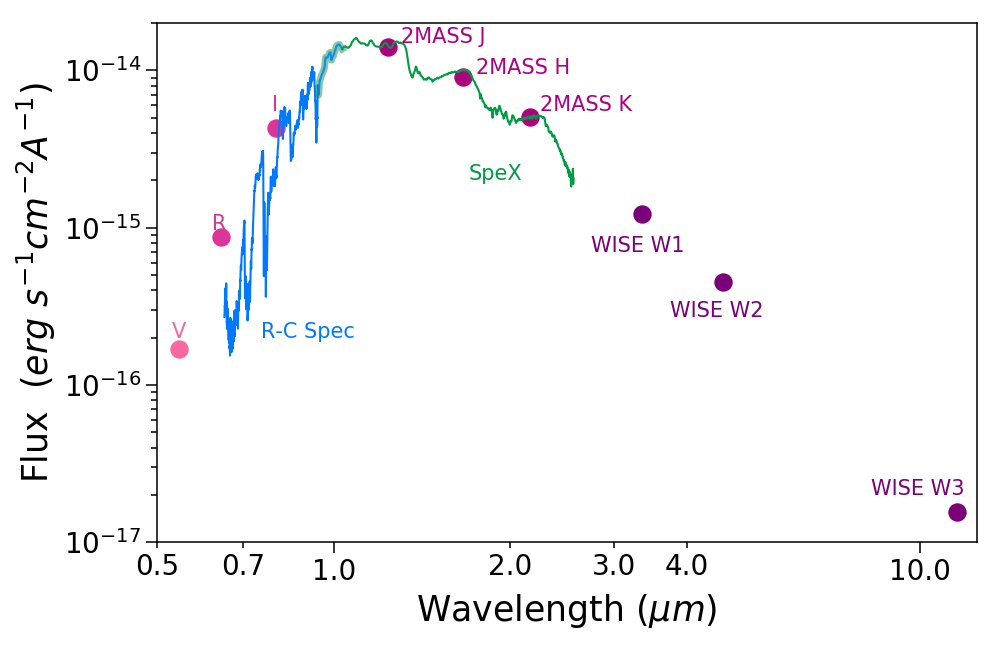
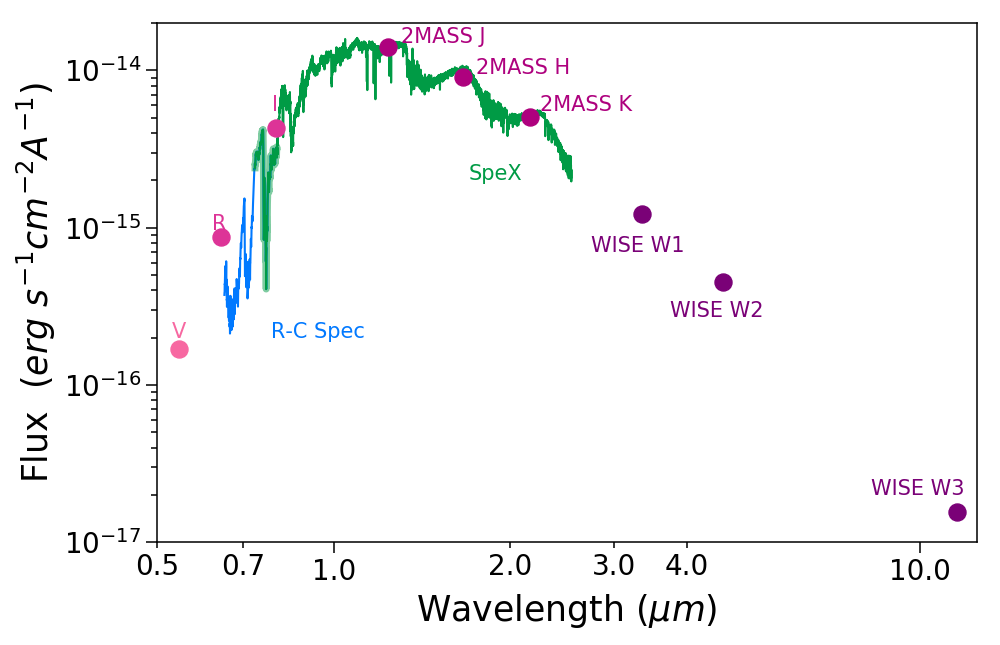
SED with SXD spectra

Changed region(s): [[0.217, 0.062, 0.558, 0.5581], [0.558, 0.2171, 0.589, 0.2791]]

diff --git a/TrappistfullSEDplot.py b/TrappistfullSEDplot.py
@@ -19,9 +19,9 @@ df2 = pd.read_csv('Data/2306-0502 (M7.5) phot.txt', sep=" ", comment='#', names=
 
 # -------- Generate spectral regime SED plot ---------------------------
 # Make subarrays for color coding
-opt = df[(df['w'] <= 0.94105)]
-overlap = df[(df['w'] >= 0.941040) & (df['w'] <= 1.037)]
-nir = df[(df['w'] >= 1.03)]
+opt = df[(df['w'] <= 0.8)]
+overlap = df[(df['w'] >= 0.733791) & (df['w'] <= 0.8)]
+nir = df[(df['w'] >= .733791)]
 
 # ----- Setup plot layout ---------
 fig = plt.figure()
@@ -34,19 +34,19 @@ for axis in ['top', 'bottom', 'left', 'right']:  # Thicken the frame
 # ----- Plot Spectra -----------
 ax1.loglog(opt['w'], opt['f'], c='#0179FF')
 ax1.loglog(overlap['w'], overlap['f'], c='#009B45', lw=5, alpha=0.5)
-ax1.loglog(overlap['w'], overlap['f'], c='#0179FF', alpha=0.8)  # alpha=0.3 for transparency
+ax1.loglog(overlap['w'], overlap['f'], c='#0179FF', alpha=0.85)  # alpha=0.3 for transparency
 ax1.loglog(nir['w'], nir['f'], c='#009B45')
 
 # ----- Plot Photometric points -----
-ax1.scatter(df2['w'][0], df2['f'][0],  c='#ae017e', s=150)  # 2MASS_H
-ax1.scatter(df2['w'][1], df2['f'][1],  c='#ae017e', s=150)  # 2MASS_J
-ax1.scatter(df2['w'][2], df2['f'][2],  c='#ae017e', s=150)  # 2MASS_K
-ax1.scatter(df2['w'][3], df2['f'][3],  c='#dd3497', s=150)  # Cousins_I
-ax1.scatter(df2['w'][4], df2['f'][4],  c='#dd3497', s=150)  # Cousins_R
-ax1.scatter(df2['w'][5], df2['f'][5],  c='#f768a1', s=150)  # Johnson_V
-ax1.scatter(df2['w'][6], df2['f'][6],  c='#7a0177', s=150)  # WISE_W1
-ax1.scatter(df2['w'][7], df2['f'][7],  c='#7a0177', s=150)  # WISE_W2
-ax1.scatter(df2['w'][8], df2['f'][8],  c='#7a0177', s=150)  # WISE_W3
+ax1.scatter(df2['w'][0], df2['f'][0],  c='#ae017e', s=150, zorder=6)  # 2MASS_H
+ax1.scatter(df2['w'][1], df2['f'][1],  c='#ae017e', s=150, zorder=6)  # 2MASS_J
+ax1.scatter(df2['w'][2], df2['f'][2],  c='#ae017e', s=150, zorder=6)  # 2MASS_K
+ax1.scatter(df2['w'][3], df2['f'][3],  c='#dd3497', s=150, zorder=6)  # Cousins_I
+ax1.scatter(df2['w'][4], df2['f'][4],  c='#dd3497', s=150, zorder=6)  # Cousins_R
+ax1.scatter(df2['w'][5], df2['f'][5],  c='#f768a1', s=150, zorder=6)  # Johnson_V
+ax1.scatter(df2['w'][6], df2['f'][6],  c='#7a0177', s=150, zorder=6)  # WISE_W1
+ax1.scatter(df2['w'][7], df2['f'][7],  c='#7a0177', s=150, zorder=6)  # WISE_W2
+ax1.scatter(df2['w'][8], df2['f'][8],  c='#7a0177', s=150, zorder=6)  # WISE_W3
 
 # ----- Set axes limits, reformat ticks -----------
 plt.xlim([0.5, 12.5])
@@ -62,7 +62,7 @@ plt.xlabel('Wavelength ($\mu m$)', fontsize=25)
 plt.ylabel('Flux  ($erg\ s^{-1} cm^{-2} A^{-1}$)', fontsize=25)
 
 # ------ Labeling Spectra and Photometric points --------
-ax1.annotate('R-C Spec', xy=(0.75, 0.2*10**(-15)), color='#0179FF', fontsize=15)
+ax1.annotate('R-C Spec', xy=(0.78, 0.2*10**(-15)), color='#0179FF', fontsize=15)
 ax1.annotate('SpeX', xy=(1.7, 0.2*10**(-14)), color='#009B45', fontsize=15)
 ax1.annotate('V', xy=(0.53, 0.2*10**(-15)), color='#f768a1', fontsize=15)
 ax1.annotate('R', xy=(0.62, 0.97*10**(-15)), color='#dd3497', fontsize=15)
